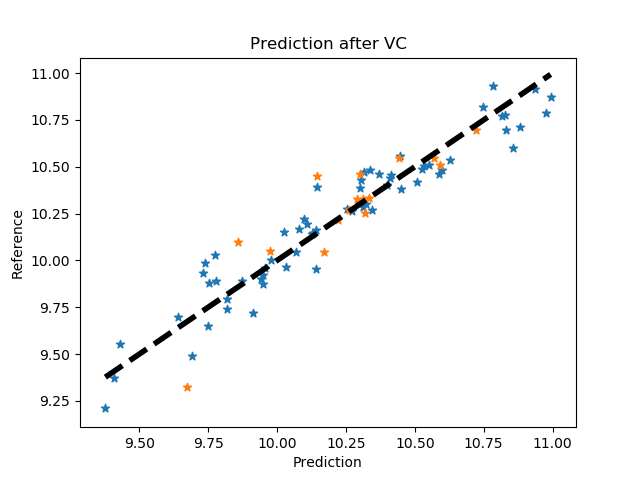
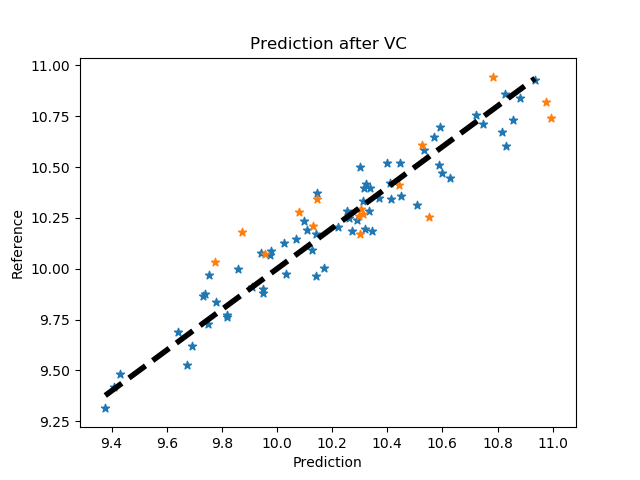
Add MSVC

diff --git a/calib/FeatureSelection.py b/calib/FeatureSelection.py
@@ -7,16 +7,22 @@ from sklearn.model_selection import cross_val_predict
 from sklearn.utils import shuffle
 from sklearn.metrics import mean_squared_error
 
+
+# Single step feature selection method
 class MCUVE:
     def __init__(self, x, y, ncomp=1, nrep=500, testSize=0.2):
         self.x = x
         self.y = y
-        self.ncomp = ncomp
+        # The number of latent components should not be larger than any dimension size of independent matrix
+        if ncomp >= min(x.shape):
+            self.ncomp = min(x.shape)
+        else:
+            self.ncomp = ncomp
         self.nrep = nrep
         self.testSize = testSize
         self.criteria = None
         self.featureIndex = None
-        self.featureR2 = np.empty(self.x.shape[1])
+        self.featureR2 = np.full(self.x.shape[1], np.nan)
         self.selFeature = None
 
     def calcCriteria(self):
@@ -89,6 +95,7 @@ class RT(MCUVE):
             cvScore = cross_val_score(regModel, xi, self.y, cv=cv)
             self.featureR2[i] = np.mean(cvScore)
 
+
 class VC(RT):
     def calcCriteria(self, cv=3):
         # calculate normal pls regression coefficient
@@ -96,12 +103,16 @@ class VC(RT):
         sampleMatrix = np.ndarray([self.nrep,self.x.shape[1]], dtype=int)
         sampleMatrix[:, :] = 0
         errVector = np.ndarray([self.nrep,1])
-        nSample = max([self.ncomp, self.x.shape[0]//2, nVar//10])
+        # The number of variable in combination should less than the total variable number
+        if nVar > self.ncomp:
+            nSample = max([self.ncomp, nVar//10])
+        else:
+            nSample = max([1, nVar-1])
         sampleidx = range(self.x.shape[1])
         for i in range(self.nrep):
             sampleidx = shuffle(sampleidx)
-            seli =sampleidx[:nSample]
-            plsModel = PLSRegression(n_components=self.ncomp)
+            seli = sampleidx[:nSample]
+            plsModel = PLSRegression(n_components=min([self.ncomp, self.x.shape[0], len(seli)]))
             plsModel.fit(self.x[:, seli], self.y)
             sampleMatrix[i, seli] = 1
             yhati=cross_val_predict(plsModel, self.x[:, seli], self.y, cv=cv)
@@ -110,6 +121,59 @@ class VC(RT):
         plsModel.fit(sampleMatrix, errVector)
         self.criteria = plsModel.coef_.ravel()
 
+# Recursive feature selection method
+class MSVC:
+    def __init__(self, x, y, ncomp=1, nrep=7000, ncut=50, testSize=0.2):
+        self.x = x
+        self.y = y
+        # The number of latent components should not be larger than any dimension size of independent matrix
+        if ncomp >= min(x.shape):
+            self.ncomp = min(x.shape)
+        else:
+            self.ncomp = ncomp
+        self.nrep = nrep
+        self.ncut = ncut
+        self.testSize = testSize
+        self.criteria = np.full([ncut, self.x.shape[1]], np.nan)
+        self.featureR2 = np.empty(ncut)
+        self.selFeature = None
+
+    def calcCriteria(self):
+        varidx = np.array(range(self.x.shape[1]))
+        ncuti = np.logspace(np.log10(self.x.shape[1]), np.log10(1), self.ncut)
+        ncuti = (np.round(ncuti)).astype(int)
+        for i in range(self.ncut):
+            vcModel = VC(self.x[:, varidx], self.y, self.ncomp, nrep=self.nrep)
+            vcModel.calcCriteria()
+            self.criteria[i, varidx] = vcModel.criteria
+            var_ranked = np.argsort(vcModel.criteria)
+            if i < self.ncut - 1:
+                varidx = varidx[var_ranked[:ncuti[i+1]]]
+
+    def evalCriteria(self, cv=3):
+        for i in range(self.ncut):
+            varSeli = ~np.isnan(self.criteria[i, :])
+            print(i)
+            if sum(varSeli) < self.ncomp:
+                regModel = LinearRegression()
+            else:
+                regModel = PLSRegression(self.ncomp)
+            xi = self.x[:,varSeli]
+            cvScore = cross_val_score(regModel, xi, self.y, cv=cv)
+            self.featureR2[i] = np.mean(cvScore)
+
+    def cutFeature(self, *args):
+        cuti = np.argmax(self.featureR2)
+        self.selFeature = ~np.isnan(self.criteria[cuti, :])
+        if len(args) != 0:
+            returnx = list(args)
+            i = 0
+            for argi in args:
+                if argi.shape[1] == self.x.shape[1]:
+                    returnx[i] = argi[:, self.selFeature]
+                i += 1
+        return tuple(returnx)
+
 
 if __name__ == "__main__":
-    print("This is the PLS model")
+    print("This is the Feature selection library")

diff --git a/FeatureSelectionDemo_MSVC.py b/FeatureSelectionDemo_MSVC.py
@@ -10,7 +10,7 @@ import scipy.io as scio
 from sklearn.cross_decomposition import PLSRegression
 from sklearn.model_selection import train_test_split
 
-from calib.FeatureSelection import VC
+from calib.FeatureSelection import MSVC
 
 if __name__ == "__main__":
     ncomp = 7
@@ -43,18 +43,18 @@ if __name__ == "__main__":
     plt.savefig("./Image/Image2_PredictionPLS.png")
     plt.close()
 
-    # C value of VC
-    vcModel = VC(Xtrain, Ytrain, ncomp, nrep=7000)
+    # C value of MSVC
+    vcModel = MSVC(Xtrain, Ytrain, ncomp, nrep=500)
     vcModel.calcCriteria()
-    plt.plot(vcModel.criteria)
+    plt.imshow(vcModel.criteria, aspect='auto')
     plt.xlabel("Wavelength")
-    plt.ylabel("Intensity")
+    plt.ylabel("Iteration")
     plt.title("C value of VC")
-    plt.savefig("./Image/Image3_C_vale.png")
+    plt.savefig("./Image/Image3_MS_C_vale.png")
     plt.close()
 
     # Feature ranking efficienty by stability of VC
-    vcModel.evalCriteria(cv=5)
+    vcModel.evalCriteria(cv=3)
     plt.plot(vcModel.featureR2)
     plt.xlabel("Wavelength")
     plt.ylabel("Intensity")
@@ -64,7 +64,7 @@ if __name__ == "__main__":
 
     # Prediction results after feature selection by VC
     XtrainNew, XtestNew = vcModel.cutFeature(Xtrain, Xtest)
-    plsModelNew = PLSRegression(n_components=ncomp)
+    plsModelNew = PLSRegression(n_components=min([ncomp, XtrainNew.shape[1]]))
     plsModelNew.fit(XtrainNew, Ytrain)
     YtrainNew_hat = plsModelNew.predict(XtrainNew)
     YtestNew_hat = plsModelNew.predict(XtestNew)
@@ -73,6 +73,6 @@ if __name__ == "__main__":
     plt.scatter(Ytest, YtestNew_hat, marker='*')
     plt.xlabel("Prediction")
     plt.ylabel("Reference")
-    plt.title("Prediction after VC")
-    plt.savefig("./Image/Image5_Prediction_VC.png")
+    plt.title("Prediction after MSVC")
+    plt.savefig("./Image/Image5_Prediction_MSVC.png")
     plt.close()

diff --git a/README.MD b/README.MD
@@ -11,11 +11,12 @@ pip install -r requirements.txt
 ```
 
 ## Demon
-Feature selection demostration of corn sample near infrared (NIR) spectra by **Monte Carlo-uninformative variable elimination (MC-UVE)**, **randomization test(RT)**, and [**Variable selection _via_ Combination (VC)**](https://link.springer.com/article/10.1007%2Fs11426-018-9368-9). 
+Feature selection demostration of corn sample near infrared (NIR) spectra by **Monte Carlo-uninformative variable elimination (MC-UVE)**, **randomization test(RT)**, [**Variable selection _via_ Combination (VC)**, and **multi-step VC（MSVC）**](https://link.springer.com/article/10.1007%2Fs11426-018-9368-9). 
 ```python
 python FeatureSelectionDemo_mcuve.py
 python FeatureSelectionDemo_RT.py
 python FeatureSelectionDemo_VC.py
+python FeatureSelectionDemo_MSVC.py
 
 ```
 
